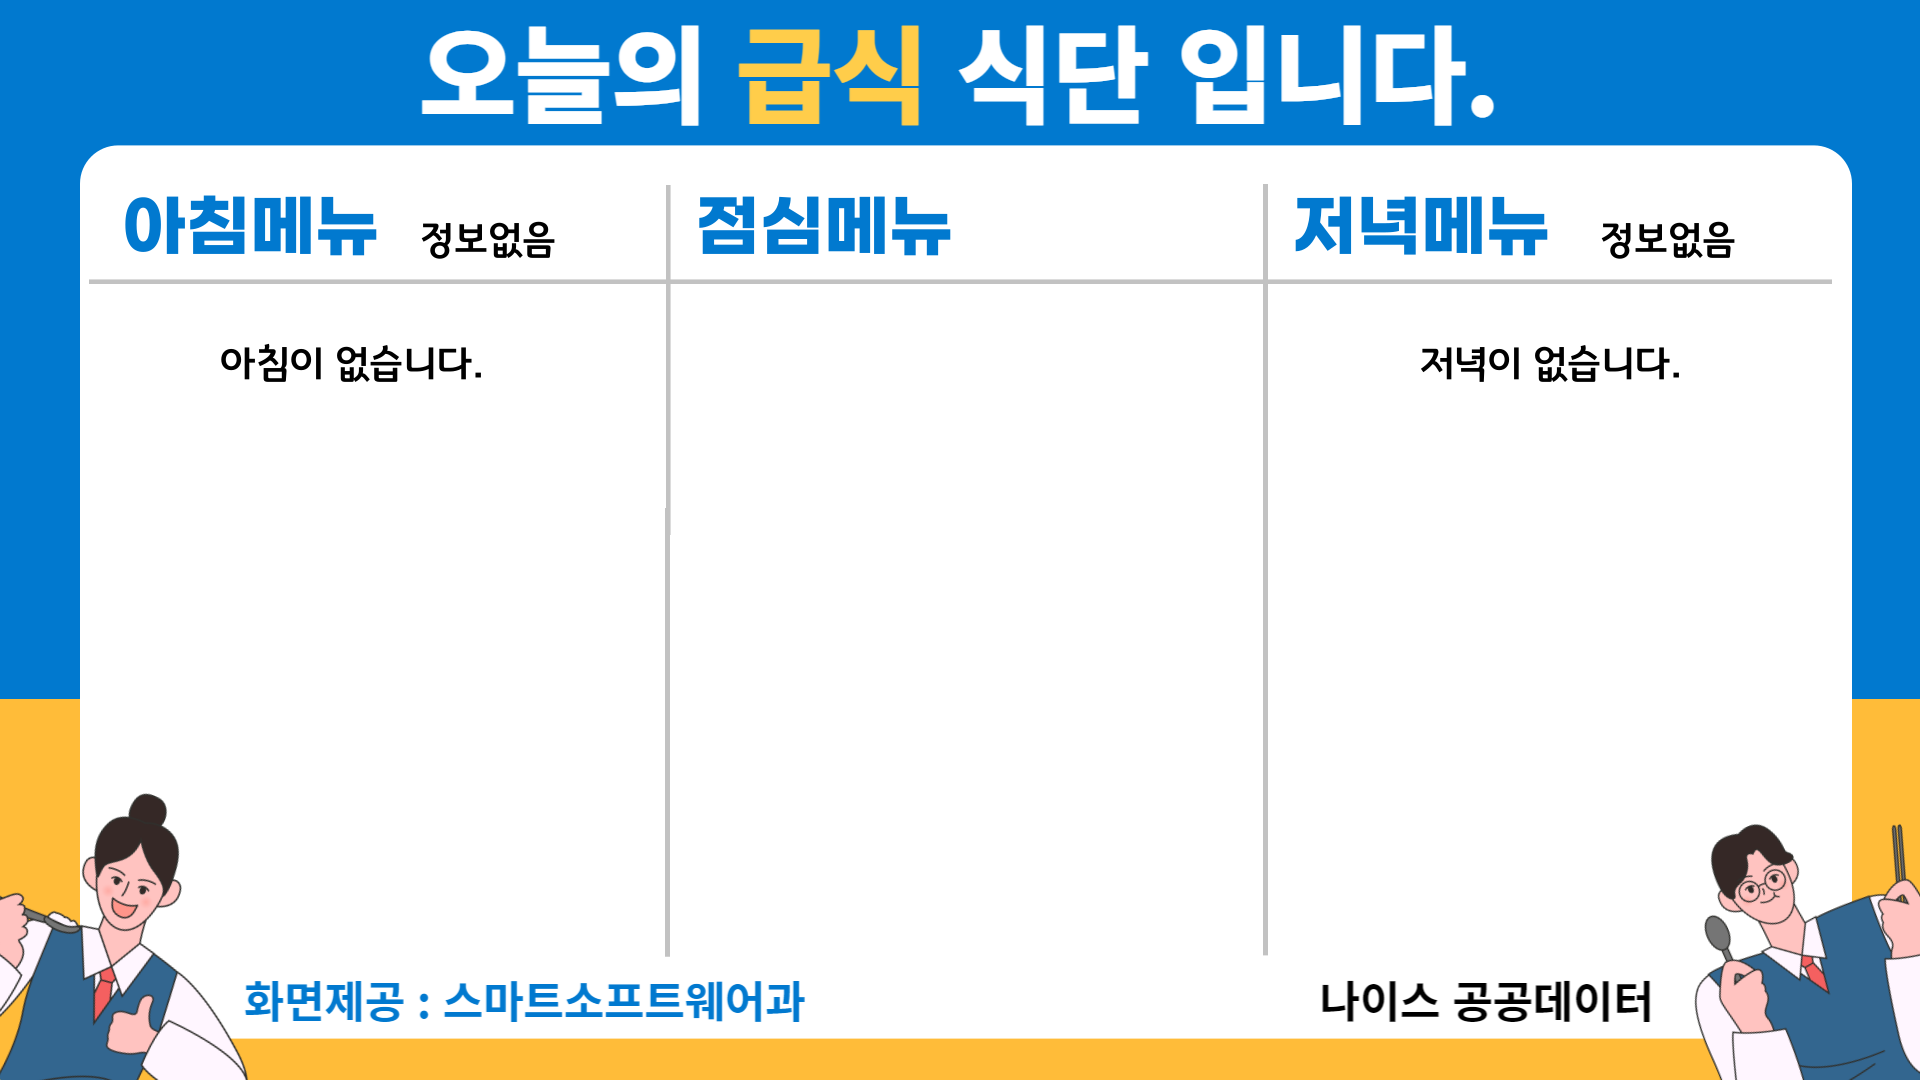
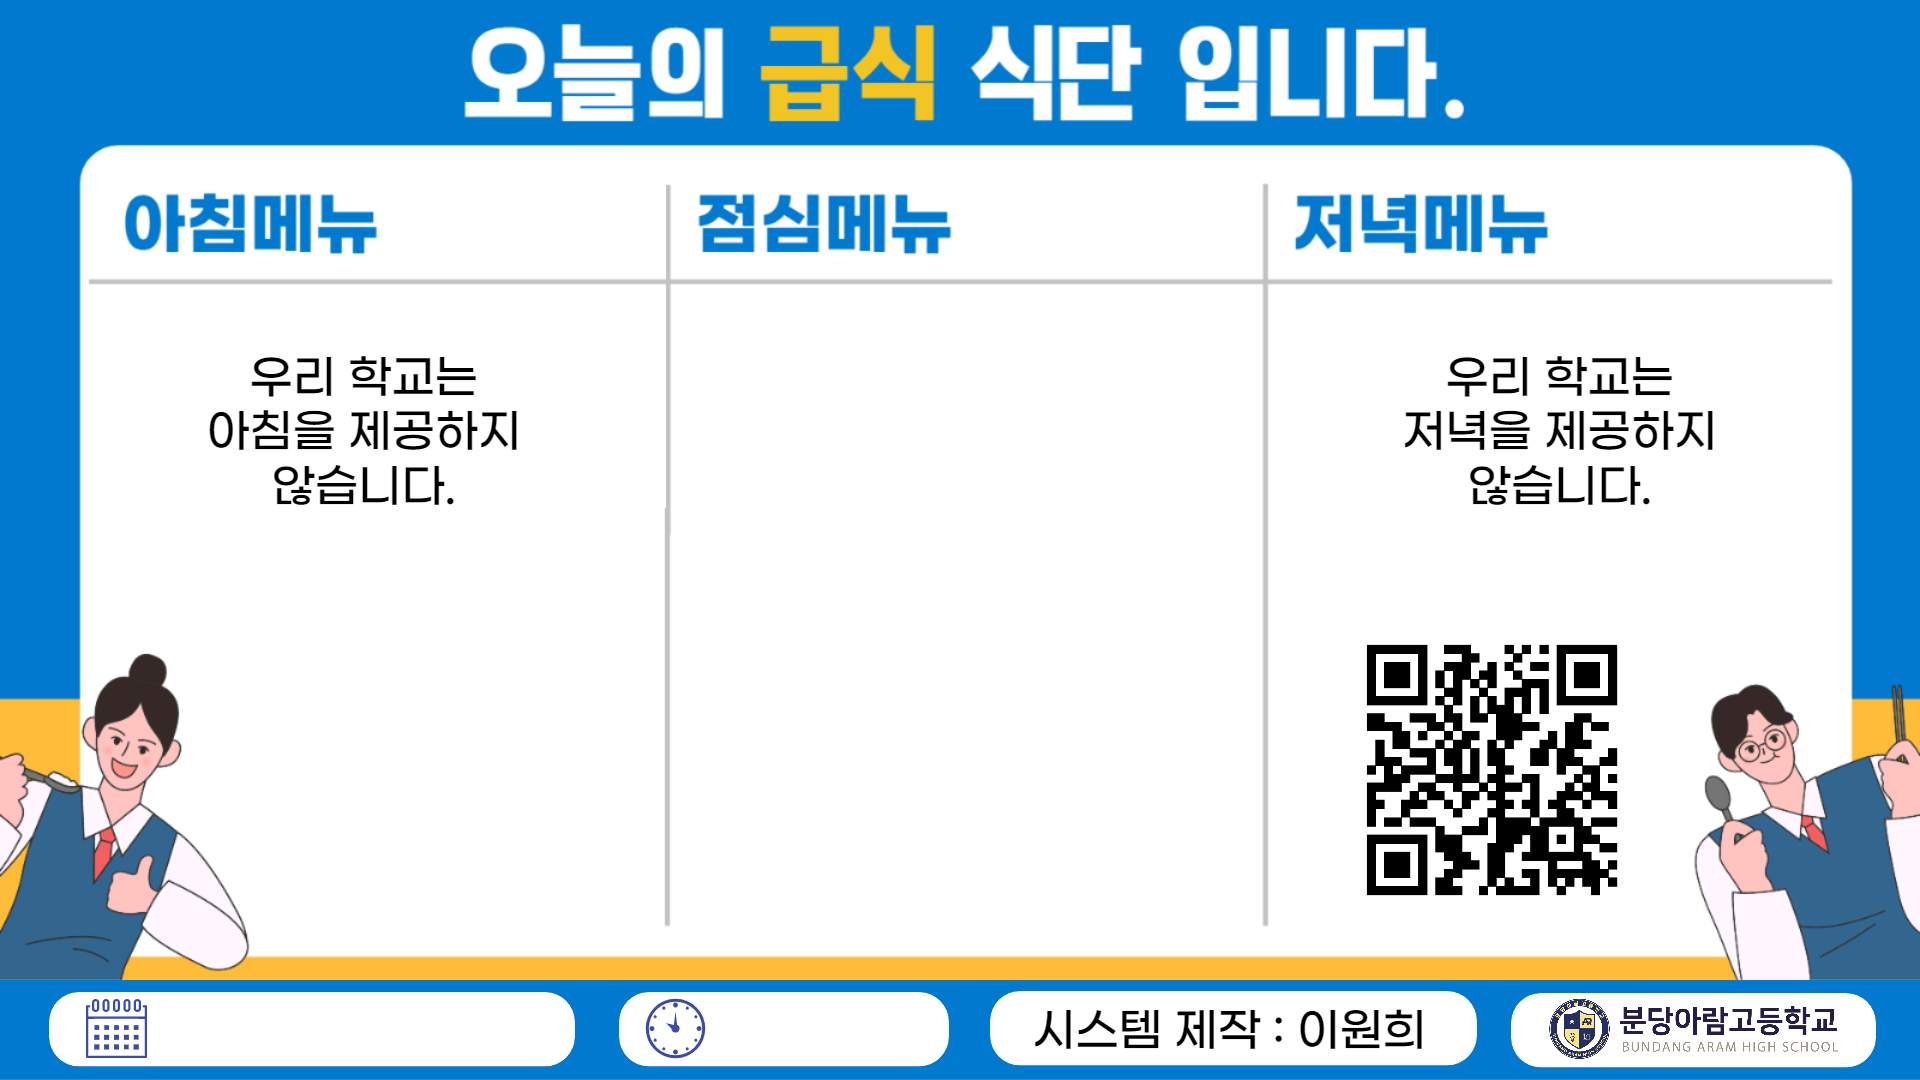
마지막 업데이트

diff --git a/My School TV Show Project/slide.py b/My School TV Show Project/slide.py
@@ -2,15 +2,42 @@ import os
 import glob
 import cv2
 from PIL import Image,ImageDraw,ImageFont
-from datetime import datetime
-import requests
+from datetime import *
 print("화면 정보 제공을 시작합니다. (5초 마다 변경)")
+today = f"{datetime.now().year}년 {datetime.now().month}월 {datetime.now().day}일"
 img_files = glob.glob('.\\images\\*.png') # 이미지 파일을 모두 img_files 리스트에 추가
 cv2.namedWindow('image', cv2.WINDOW_NORMAL) # 전체 화면으로 'image' 창 생성
 cv2.setWindowProperty('image', cv2.WND_PROP_FULLSCREEN, cv2.WINDOW_FULLSCREEN) # cv2. WND_PROP_FULLSCREEN, cv2.WINDOW_FULLSCREEN을 이용하여 전체화면 속성으로 변경
-
+fontsFolder = '.\\images\\baseimages\\경기천년체\\TTF\\경기천년제목_Medium.ttf'    #글자로 쓸 폰트 경로
+selectedFont =ImageFont.truetype(fontsFolder,50)
+selectedFont2 =ImageFont.truetype(fontsFolder,50) #폰트경로과 사이즈를 설정해줍니다.
 idx = 0
 while True:
+
+    times = 0
+    while(times <= 1):
+        target_image = Image.open('.\\images\\before_image\\jijinresult.png')  #일단 기본배경폼 이미지를 open 합니다.
+        draw =ImageDraw.Draw(target_image)
+        draw.text((165,1005),f"{today}",fill="black",font=selectedFont,align='left') 
+        draw.text((715,1005),f"{datetime.now().hour}시 {datetime.now().minute}분",fill="black",font=selectedFont2,align='left') 
+        target_image.save(".\\images\\jijinresult.png") #편집된 이미지를 저장합니다.
+        target_image.close()
+
+        target_image = Image.open('.\\images\\before_image\\mealService.png')  #일단 기본배경폼 이미지를 open 합니다.
+        draw =ImageDraw.Draw(target_image)
+        draw.text((165,1005),f"{today}",fill="black",font=selectedFont,align='left') 
+        draw.text((715,1005),f"{datetime.now().hour}시 {datetime.now().minute}분",fill="black",font=selectedFont2,align='left') 
+        target_image.save(".\\images\\mealService.png") #편집된 이미지를 저장합니다.
+        target_image.close()
+
+        target_image = Image.open('.\\images\\before_image\\sky.png')  #일단 기본배경폼 이미지를 open 합니다.
+        draw =ImageDraw.Draw(target_image)
+        draw.text((165,1005),f"{today}",fill="black",font=selectedFont,align='left') 
+        draw.text((715,1005),f"{datetime.now().hour}시 {datetime.now().minute}분",fill="black",font=selectedFont2,align='left') 
+        target_image.save(".\\images\\sky.png") #편집된 이미지를 저장합니다.
+        target_image.close()
+
+        times += 1
 
     cnt = len(img_files)
 
@@ -28,25 +55,43 @@ while True:
         cv2.waitKey(10)
         alpha += 0.02
 
-    if cv2.waitKey(5000) >= 0: # 1초 동안 사진보여주는데 만약에 키보드 입력이 있으면 종료
+    if cv2.waitKey(4000) >= 0: # 1초 동안 사진보여주는데 만약에 키보드 입력이 있으면 종료
         break
     
-    target_image = Image.open('.\\images\\baseimages\\times.png')  #일단 기본배경폼 이미지를 open 합니다.
-    fontsFolder = '.\\images\\baseimages\\경기천년체\\TTF\\경기천년제목_Medium.ttf'    #글자로 쓸 폰트 경로
-    selectedFont =ImageFont.truetype(fontsFolder,140)
-    selectedFont2 =ImageFont.truetype(fontsFolder,250) #폰트경로과 사이즈를 설정해줍니다.
-    draw =ImageDraw.Draw(target_image)
+    times = 0
+    while(times <= 1):
 
-    draw.text((830,80),f"{datetime.now().year}년 {datetime.now().month}월 {datetime.now().day}일",fill="black",font=selectedFont,align='left') 
-    draw.text((100,550),f"{datetime.now().hour}시 {datetime.now().minute}분",fill="black",font=selectedFont2,align='left') 
+        target_image = Image.open('.\\images\\before_image\\jijinresult.png')  #일단 기본배경폼 이미지를 open 합니다.
+        draw =ImageDraw.Draw(target_image)
+        draw.text((165,1005),f"{today}",fill="black",font=selectedFont,align='left') 
+        draw.text((715,1005),f"{datetime.now().hour}시 {datetime.now().minute}분",fill="black",font=selectedFont2,align='left') 
+        target_image.save(".\\images\\jijinresult.png") #편집된 이미지를 저장합니다.
+        target_image.close()
 
-    target_image.save(".\\images\\time.png") #편집된 이미지를 저장합니다.
-    target_image.close()
+        target_image = Image.open('.\\images\\before_image\\mealService.png')  #일단 기본배경폼 이미지를 open 합니다.
+        draw =ImageDraw.Draw(target_image)
+        draw.text((165,1005),f"{today}",fill="black",font=selectedFont,align='left') 
+        draw.text((715,1005),f"{datetime.now().hour}시 {datetime.now().minute}분",fill="black",font=selectedFont2,align='left') 
+        target_image.save(".\\images\\mealService.png") #편집된 이미지를 저장합니다.
+        target_image.close()
+
+        target_image = Image.open('.\\images\\before_image\\sky.png')  #일단 기본배경폼 이미지를 open 합니다.
+        draw =ImageDraw.Draw(target_image)
+        draw.text((165,1005),f"{today}",fill="black",font=selectedFont,align='left') 
+        draw.text((715,1005),f"{datetime.now().hour}시 {datetime.now().minute}분",fill="black",font=selectedFont2,align='left') 
+        target_image.save(".\\images\\sky.png") #편집된 이미지를 저장합니다.
+        target_image.close()
+
+        times += 1
 
     idx += 1
     if idx >= cnt:
         idx = 0
 
+    if datetime.now().hour == 16 and datetime.now().minute == 40:
+        break
+    
     print(f"[{datetime.now()}] 화면 제공 정보 업데이트 완료")
+    
 
 cv2.destroyAllWindows()

diff --git a/My School TV Show Project/JijinAPI.py b/My School TV Show Project/JijinAPI.py
@@ -11,7 +11,7 @@ def koreanJijin():
     today = datetime.today().strftime("%Y%m%d%H%M")
 
     url = "https://apihub.kma.go.kr/api/typ01/url/eqk_list.php?tm1=201211231215&tm2=201311231215&disp=0&help=1&authKey=WiUNm7KfSjilDZuynyo4TQ"
-    key = "API KEY HERE"
+    key = "WiUNm7KfSjilDZuynyo4TQ"
 
     params = {
         "tm1" : f"{today1}0000",
@@ -33,10 +33,10 @@ def koreanJijin():
 
     target_image = Image.open('.\\images\\baseimages\\jijin.png')
     fontsFolder = '.\\images\\baseimages\\경기천년체\\TTF\\경기천년제목_Medium.ttf'    #글자로 쓸 폰트 경로
-    selectedFont =ImageFont.truetype(os.path.join(fontsFolder,65)
-    selectedFont1 =ImageFont.truetype(os.path.join(fontsFolder,50) #폰트경로과 사이즈를 설정해줍니다.
-    selectedFont2 =ImageFont.truetype(os.path.join(fontsFolder,100) #폰트경로과 사이즈를 설정해줍니다.
-    selectedFont3 =ImageFont.truetype(os.path.join(fontsFolder,70) #폰트경로과 사이즈를 설정해줍니다.
+    selectedFont =ImageFont.truetype(fontsFolder,65)
+    selectedFont1 =ImageFont.truetype(fontsFolder,50) #폰트경로과 사이즈를 설정해줍니다.
+    selectedFont2 =ImageFont.truetype(fontsFolder,100) #폰트경로과 사이즈를 설정해줍니다.
+    selectedFont3 =ImageFont.truetype(fontsFolder,70) #폰트경로과 사이즈를 설정해줍니다.
     draw =ImageDraw.Draw(target_image)
 
     try:
@@ -44,12 +44,12 @@ def koreanJijin():
     except:
         jijin = ["","","","00000000000000","0.0","","","지진 발생 정보 없음.","","지진 발생 정보 없음.","","","","",""]
         time = str(jijin[3])
-    draw.text((420,540),f"{time[0:4]}년 {time[4:6]}월 {time[6:8]}일 {time[8:10]}시 {time[10:12]}분 {time[12:14]}초",fill="black",font=selectedFont1,align='left') 
-    draw.text((145,620),f"{jijin[7]}",fill="black",font=selectedFont,align='left') 
-    draw.text((160,840),f"{jijin[4]}",fill="black",font=selectedFont2,align='left') 
-    draw.text((500,840),f"{jijin[9]}",fill="black",font=selectedFont3,align='left') 
+    draw.text((420,510),f"{time[0:4]}년 {time[4:6]}월 {time[6:8]}일 {time[8:10]}시 {time[10:12]}분 {time[12:14]}초",fill="black",font=selectedFont1,align='left') 
+    draw.text((147,590),f"{jijin[7]}",fill="black",font=selectedFont,align='left') 
+    draw.text((160,790),f"{jijin[4]}",fill="black",font=selectedFont2,align='left') 
+    draw.text((500,790),f"{jijin[9]}",fill="black",font=selectedFont3,align='left') 
 
-    target_image.save(".\\images\\jijinresult.png") #편집된 이미지를 저장합니다.
+    target_image.save(".\\images\\before_image\\jijinresult.png") #편집된 이미지를 저장합니다.
     target_image.close()
     
     print(f"[{datetime.now()}] 지진 정보 업데이트 완료")

diff --git a/My School TV Show Project/AirKoreaAPI.py b/My School TV Show Project/AirKoreaAPI.py
@@ -7,7 +7,7 @@ print("경기도 성남시 대기질 정보 불러오기를 시작 합니다. (1
 
 def airKorea():
     url = "http://apis.data.go.kr/B552584/ArpltnInforInqireSvc/getMsrstnAcctoRltmMesureDnsty" # API URL
-    key = "개인키" # API 접근 보안 키
[1 lines of base64/hex data omitted]
 
     params = {
         "returnType" : "json", # JSON 형식
@@ -27,11 +27,11 @@ def airKorea():
         times = i["dataTime"] # 측정 시각변수 저장
         break
 
-    target_image = Image.open(.\\images\\baseimages\\test.png') # 대기질 베이스 이미지 불러오기
+    target_image = Image.open('.\\images\\baseimages\\test.png') # 대기질 베이스 이미지 불러오기
     fontsFolder = '.\\images\\baseimages\\경기천년체\\TTF\\경기천년제목_Medium.ttf' #글자로 쓸 폰트 경로
-    selectedFont =ImageFont.truetype(os.path.join(fontsFolder,fontsFolder),120) #폰트경로과 사이즈를 설정해줍니다.
-    selectedFont1 =ImageFont.truetype(os.path.join(fontsFolder,fontsFolder),90) #폰트경로과 사이즈를 설정해줍니다.
-    selectedFont2 =ImageFont.truetype(os.path.join(fontsFolder,fontsFolder),55) #폰트경로과 사이즈를 설정해줍니다.
+    selectedFont =ImageFont.truetype(fontsFolder,120) #폰트경로과 사이즈를 설정해줍니다.
+    selectedFont1 =ImageFont.truetype(fontsFolder,90) #폰트경로과 사이즈를 설정해줍니다.
+    selectedFont2 =ImageFont.truetype(fontsFolder,55) #폰트경로과 사이즈를 설정해줍니다.
     draw =ImageDraw.Draw(target_image)
 
     #========================================================================================== 미세먼지 측정 값에 따른 분류
@@ -105,7 +105,7 @@ def airKorea():
 
     draw.text((50,1020),f"{times}",fill="white",font=selectedFont2,align='left')
 
-    target_image.save(".\\images\\sky.png")
+    target_image.save(".\\images\\before_image\\sky.png")
     target_image.close()
 
     print(f"[{datetime.now()}] 미세먼지 정보 업데이트 완료")

diff --git a/My School TV Show Project/mealimagemake.py b/My School TV Show Project/mealimagemake.py
@@ -1,9 +1,14 @@
 # 라이브러리 가져오기
 from PIL import Image,ImageDraw,ImageFont
 import mealService
+import datetime
+
+now = datetime.datetime.now()
+now = str(now).split(" ")
+now = str(now[0]).replace("-","")
 
 # mealService 파일에서 MealService함수를 이용하여 정보 받아오기 그리고 meal변수에 담아주기
-meal = mealService.MealService("학교코드","교육청코드","날짜(8자리)")
+meal = mealService.MealService("7531423","J10",now)
 
 # 베이스가 되는 이미지 가져오기
 target_image = Image.open('.\\images\\baseimages\\mealService.png') #일단 기본배경폼 이미지를 open 합니다.
@@ -19,7 +24,4 @@ draw.text((990,220),f"{meal[0]}",fill="Black",font=selectedFont,align='left') # 
 draw.text((730,200),f"{meal[1]}",fill="Black",font=selectedFont,align='left') # 급식 메뉴
     
 # 편집된 이미지를 저장하기
-target_image.save(f".\\images\\mealService.png") #편집된 이미지를 저장합니다.
-
-# 저장된 이미지를 열기
-target_image.show()
+target_image.save(f".\\images\\before_image\\mealService.png") #편집된 이미지를 저장합니다.

diff --git a/My School TV Show Project/AutoOff.py b/My School TV Show Project/AutoOff.py
@@ -1,0 +1,32 @@
+import os, cv2, glob
+import schedule, time
+import psutil
+
+def AutoOff():
+    cv2.namedWindow('GIF', cv2.WINDOW_NORMAL) # 전체 화면으로 'image' 창 생성
+    cv2.setWindowProperty('GIF', cv2.WND_PROP_FULLSCREEN, cv2.WINDOW_FULLSCREEN) # cv2. WND_PROP_FULLSCREEN, cv2.WINDOW_FULLSCREEN을 이용하여 전체화면 속성으로 변경
+
+    # GIF 파일을 엽니다.
+    gif = cv2.VideoCapture('AutoOff.gif')
+
+    # GIF 파일의 모든 프레임을 읽어들입니다.
+    frames = []
+    while True:
+        ret, frame = gif.read()
+        if not ret:
+            break
+        frames.append(frame)
+
+    # 모든 프레임을 화면에 출력합니다.
+    for frame in frames:
+        cv2.imshow('GIF', frame)
+        cv2.waitKey(50) 
+
+    os.system('shutdown -s -t 0') #컴퓨터 끄기
+
+# 매일 13시 30분에 함수 실행
+schedule.every().day.at("16:40").do(AutoOff)
+
+while True:
+    schedule.run_pending()
+    time.sleep(1)

diff --git a/My School TV Show Project/mealService.py b/My School TV Show Project/mealService.py
@@ -11,7 +11,7 @@ def MealService(shoolCode:str, educationCode:str, date:str):
 
     # API 요청 인자를 입력하기
     params = { 
-        "KEY" : "API KEY HERE", # 인증키 / 필수
+        "KEY" : "706d7a182fe345079eb30c83577d19d7", # 인증키 / 필수
         "Type":"json", # 호물 문서 / 필수
         "pIndex":1, # 페이지 위치 / 필수
         "pSize":100, # 페이지 당 신청 숫자 / 필수
